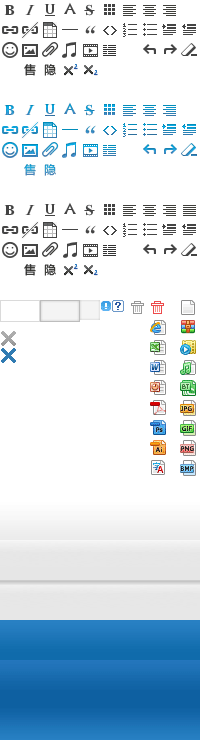
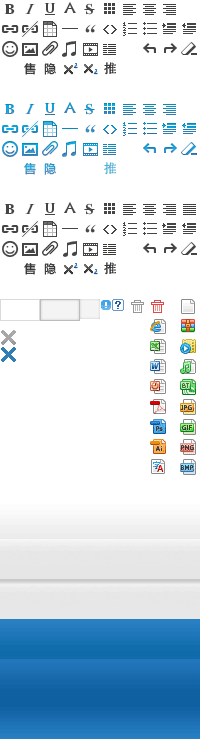
完成编辑器增加售卖插件功能

diff --git a/upload/res/js/dev/windeditor/plugins/insertTao/plugin.js b/upload/res/js/dev/windeditor/plugins/insertTao/plugin.js
@@ -13,23 +13,33 @@
 		dialog = $('\
 			<div class="edit_menu">\
 				<div class="edit_menu_music">\
-					<div class="edit_menu_top"><a href="" class="edit_menu_close">关闭</a><strong>插入商品</strong></div>\
+					<div class="edit_menu_top"><a href="" class="edit_menu_close">关闭</a><strong>推广位</strong></div>\
 					<div class="edit_menu_cont">\
 						<dl class="cc">\
-							<dt>标题：</dt>\
+							<dt>文字：</dt>\
 							<dd><input type="text" class="input length_5" id="J_input_tao_title"></dd>\
+						</dl>\
+						<dl class="cc">\
+                            <dt>类型：</dt>\
+                            <dd>\
+                            <label><input name="button_type" type="radio" value="购买" checked="checked">购买</label>\
+                            <label><input name="button_type" type="radio" value="下载">下载</label>\
+                            <label><input name="button_type" type="radio" value="去看看">去看看</label>\
+                            <label><input name="button_type" type="radio" value="抢">抢</label>\
+                            </dd>\
+                        </dl>\
+                        <dl class="cc">\
+							<dt>价格：</dt>\
+							<dd><input type="text" class="input length_3" id="J_input_tao_price" placeholder="例如：￥50、免费、等等。"></dd>\
+						</dl>\
+						<dl class="cc">\
+							<dt>链接：</dt>\
+							<dd><input type="text" class="input length_5" id="J_input_tao_link"></dd>\
 						</dl>\
                         <dl class="cc">\
 							<dt>图片：</dt>\
-							<dd><canvas id="imgBrowser" width="200" height="200" style="display:none" /><input type="file" style="display:none" onchange="fileSelectEventHandle(event,\'imgBrowser\')" name="Filename" id="Filename" /><input type="button" onclick="Filename.click()" value="选择文件" /></dd>\
-						</dl>\
-                        <dl class="cc">\
-							<dt>价格：</dt>\
-							<dd><input type="text" class="input length_3" id="J_input_tao_price"></dd>\
-						</dl>\
-						<dl class="cc">\
-							<dt>地址：</dt>\
-							<dd><input type="text" class="input length_5" id="J_input_tao_link"></dd>\
+							<dd><canvas id="imgBrowser" width="160" height="160" style="display:none" />\
+                                <input type="file" style="display:none"  accept="image/png,image/jpeg" onchange="fileSelectEventHandle(event,\'imgBrowser\')" name="Filename" id="Filename" /><input type="button" onclick="Filename.click()" value="选择文件" />(160*160)</dd>\
 						</dl>\
 					</div>\
 					<div class="edit_menu_bot">\
@@ -66,16 +76,26 @@
 			dialog.find('.edit_menu_btn').on('click',function(e) {
 				e.preventDefault();
 
-                var title = $('#J_input_tao_title').val();
+                var title = $('#J_input_tao_title').val().replace(/,/g,'');
                 var link = $('#J_input_tao_link').val();
+                var price = $('#J_input_tao_price').val().replace(/,/g,'');
                 if( title.length<2 ) {
-                    alert('请描述一下商品标题');
+                    alert('文字内容不能为空！');
                     return;
                 }
-                if( link.indexOf('http')!== 0 ) {
-                    alert('商品地址不正确，请重新输入');
+                if( price.length<1 ){
+                    alert('价格不能为空！');
                     return;
                 }
+                if( link.indexOf('http://')!== 0 ) {
+                    alert('地址不正确，请重新输入');
+                    return;
+                } 
+                if( $("#Filename").val()=="" ){
+                    alert('请选择文件');
+                    return;
+                }
+                var button_type=$("input[name=button_type]:checked").val();
 
                 //first upload image
                 var formData = new FormData();
@@ -96,9 +116,14 @@
                 }).done(function(ret){
                     //console.log(ret)
                     if( ret.state=='success' ){
-                        _self.insertHTML('<table class><tbody><tr><td><img src="'+ret.data.path+'" /></td><td valign="top">美女一枚，出售，抄底价。</br>￥56.99</br><input type="button" value="购买" onclick="alert(\"ok\");"></td></tr></tbody></table>');
-
-                        //				_self.insertHTML('<img class="j_editor_tao_content" width="300" height="40" style="border:1px dashed #ccc;display:block;background:#fffeee url('+ img_path +'music_48.png) center center no-repeat;" src="'+ img_path +'blank.gif" data-url="'+ link +'" data-auto="'+ is_autoplay +'"/>').hideDialog();
+                        var _html='<dl class="taobaoCanvas">\
+                    <dt><img src="'+ret.data.path+'" /></dt>\
+                    <dd class="title">'+title+'</dd>\
+                    <dd class="price">价格：'+price+'</dd>\
+                    <dd><span class="go"><a href="'+link+'">'+button_type+'</a></span></dd>\
+                    <dd style="clear:both;"></dd>\
+                    </dl>';
+                        _self.insertHTML(_html);
                         _self.hideDialog();
                     }else{
                         alert(ret.message[0]);
@@ -109,12 +134,16 @@
 			});
 
 			function wysiwyg() {
-				var reg = /\[mp3=(\d)\]([\s\S]*?)\[\/mp3\]/ig;
+                var reg = /\[tao=([^,]+),([^,]+),([^,]+),([^,]+),([^,]+)\]\[\/tao\]/ig;
 				var	html = $(editorDoc.body).html();
-				html = html.replace(reg,function(all, $1, $2) {
-//					return '<img class="j_editor_tao_content" width="300" height="40" style="border:1px dashed #ccc;display:block;background:#fffeee url('+ img_path +'music_48.png) center center no-repeat;" src="'+ img_path +'blank.gif" data-url="'+ $2 +'" data-auto="'+ $1 +'"/>';
-                    _self.insertHTML('<table><tbody><tr><td><img src="http://10.101.81.197:8001/phpwind/upload/attachment/thumb/mini/1501/thread/2_3_3b214088fd537f1.jpg" ></td><td valign="top">美女一枚，出售，抄底价。</br>￥56.99</br><input type="button" value="购买" onclick="alert(\"ok\");"></td></tr></tbody></table>');
-            
+				html = html.replace(reg,function(all, $1, $2, $3, $4, $5) {
+                    return '<dl class="taobaoCanvas">\
+                    <dt><img src="'+decodeURIComponent($5)+'" /></dt>\
+                    <dd class="title">'+$1+'</dd>\
+                    <dd class="price">'+$3+'</dd>\
+                    <dd><span class="go"><a href="'+decodeURIComponent($2)+'">'+$4+'</a></span></dd>\
+                    <dd style="clear:both;"></dd>\
+                    </dl>';
 				});
 				$(editorDoc.body).html(html);
 			}
@@ -130,11 +159,14 @@
 
 			//切换成代码模式或者提交时
 			$(_self).on('beforeGetContent.' + pluginName,function() {
-				$(editorDoc.body).find('img.j_editor_music_content').each(function() {
-					var url = $(this).data('url'),
-						is_autoplay = $(this).data('auto');
-					$(this).replaceWith('[mp3='+ is_autoplay +']'+ url +'[/mp3]');
-				});
+				$(editorDoc.body).find('.taobaoCanvas').each(function() {
+			        var img     = $(this).children('dt').children('img').attr('src');
+                    var title   = $(this).children('.title').text().replace(/,/g,'');
+                    var price   = $(this).children('.price').text().replace(/,/g,'');
+                    var link    = $(this).children('dd').children('.go').children('a').attr('href');
+                    var btn    = $(this).children('dd').children('.go').children('a').text();
+                    $(this).replaceWith('[tao='+title+','+encodeURIComponent(link)+','+price+','+btn+','+encodeURIComponent(img)+'][/tao]');
+                });
 			});
 
 	});

diff --git a/upload/res/css/editor_content.css b/upload/res/css/editor_content.css
@@ -426,9 +426,14 @@ $Id: editor_content.css 24233 2013-01-23 06:36:49Z yanchixia $
 	max-width:100%;
 }
 
-
-
-
+/*推广*/
+.taobaoCanvas{border:1px dashed #CCC;background:#f7f7f7 right top no-repeat;padding:10px;margin:1em 0;}
+.taobaoCanvas .go { border-radius: 5px; box-shadow: 0px 1px 1px #666666; font-family: Arial; color: #ffffff; font-size: 18px; background: #fc7600; padding: 2px 20px 2px 20px; text-decoration: none; }
+.taobaoCanvas .go a{text-decoration: none;color:#fff}
+.taobaoCanvas dt{float:left;width:160px;height:160px;padding:0 15px 5px; 5px;}
+.taobaoCanvas dt img{width:160px;height:160px;}
+.taobaoCanvas .title{font-size:14px;font-weight:bold;min-height:30px;}
+.taobaoCanvas .price{font-weight:bold;color:#fc7600;margin-bottom:5px}
 
 
 

diff --git a/upload/res/js/dev/windeditor/themes/buyiui/buyiui.css b/upload/res/js/dev/windeditor/themes/buyiui/buyiui.css
@@ -337,6 +337,13 @@ $Id: buyiui.css 22826 2012-12-27 10:36:03Z hao.lin $
 .wind_icon:hover span.insertSell{
 	background-position:-20px -160px;
 }
+/*=====推广=====*/
+.wind_icon span.insertTao{
+    background-position:-100px -60px;
+}
+.wind_icon:hover span.insertTao{
+	background-position:-100px -160px;
+}
 /*=====隐藏=====*/
 .wind_icon span.insertHide{
 	background-position:-40px -60px;

diff --git a/upload/src/library/ubb/PwUbbCode.php b/upload/src/library/ubb/PwUbbCode.php
@@ -341,6 +341,13 @@ class PwUbbCode {
 		);
 	}
 
+    public static function parseTao($message) {
+    //public static function createTao($title, $btn_type, $price, $link, $img){
+		//echo preg_replace("/\[tao=([^\]]+)\]\[([^\]]+)\]\[([^\]]+)\]\[([^\]]+)\]\[([^\]]+)\]\[\/tao\]/eis", "self::createTao('\\2', '\\4', '\\3', '\\1', '\\5')", $message);
+		return preg_replace("/\[tao=([^,]+),([^,]+),([^,]+),([^,]+),([^,]+)\]\[\/tao\]/eis", "self::createTao('\\1', '\\4', '\\3', '\\2', '\\5')", $message);
+	}
+
+
 	public static function parseRemind($message, $remindUser) {
 		return preg_replace('/@([\x7f-\xff\dA-Za-z\.\_]+)(?=\s?)/ie', "self::createRemind('\\1', \$remindUser)", $message);
 	}
@@ -428,11 +435,12 @@ class PwUbbCode {
 		$message = self::convertGlow($message);
 
 		self::_startParse();
+        $config->isConvertTao && $message = self::parseTao($message);
 		strpos($message, '[s:') !== false && $message = self::parseEmotion($message);
 		$message = self::parseAttachment($message, $config);
 		self::hasTag($message, 'img') && $message = self::parseImg($message, $config->isConverImg, $config->imgWidth, $config->imgHeight, $config->imgLazy);
 		self::hasTag($message, 'url') && $message = self::parseUrl($message);
-		self::hasTag($message, 'flash') && $message = self::parseFlash($message, $config->isConvertFlash);
+        self::hasTag($message, 'flash') && $message = self::parseFlash($message, $config->isConvertFlash);
 		$config->remindUser && $message = self::parseRemind($message, $config->remindUser);
 		$config->isConvertMedia && $message = self::parseMedia($message, $config->isConvertMedia == 2);
 		$config->isConvertIframe && self::hasTag($message, 'iframe') && $message = self::parseIframe($message, $config->isConvertIframe == 2);
@@ -734,6 +742,25 @@ class PwUbbCode {
 		$html = "<span class=\"posts_icon\"><i class=\"icon_music\"><i></span> <a target=\"_blank\" href=\"$url \">$url</a>";
 		return self::_pushCode($html);
 	}
+
+    /**
+     * createTaoCanvas 
+     * 
+     * @access public
+     * @return void
+     */
+    public static function createTao($title, $btn_type, $price, $link, $img){
+        $link = self::escapeUrl(urldecode($link));
+        $img  = self::escapeUrl(urldecode($img));
+        $html = '<dl class="taobaoCanvas">
+                    <dt><img src="'.$img.'" /></dt>
+                    <dd class="title">'.$title.'</dd>
+                    <dd class="price">'.$price.'</dd>
+                    <dd><span class="go"><a href="'.$link.'">'.$btn_type.'</a></span></dd>
+                    <dd style="clear:both;"></dd>
+                    </dl>';
+        return self::_pushCode($html);
+    }
 
 	public static function createRemind($username, $uArray) {
 		return isset($uArray[$username]) ? '<a href="'. WindUrlHelper::createUrl('space/index/run', array('uid' => $uArray[$username])) . '">@' . $username . '</a>' : '@' . $username;

diff --git a/upload/src/applications/native/controller/NativeBaseController.php b/upload/src/applications/native/controller/NativeBaseController.php
@@ -135,6 +135,13 @@ abstract class NativeBaseController extends PwBaseController {
         }
     }
 
+    public function abcAction(){
[1 lines of base64/hex data omitted]
+        $aaa=  Pw::decrypt($unsecurityKey,$this->_securityKey);
+        print_r( unserialize($aaa) );
+        exit;
+    }
+
     /**
      * 认证sessionKey是否合法 
      * 

diff --git a/upload/src/library/ubb/config/PwUbbCodeConvertThread.php b/upload/src/library/ubb/config/PwUbbCodeConvertThread.php
@@ -30,6 +30,7 @@ class PwUbbCodeConvertThread extends PwUbbCodeConvertConfig {
 		$this->isConvertPost = true;
 		$this->isConvertHide = true;
 		$this->isConvertSell = true;
+		$this->isConvertTao  = true;
 		$this->isConverImg = $config['ubb.img.open'];
 		$this->isConvertMedia = $config['ubb.media.open'] ? 2 : 1;
 		$this->isConvertFlash = $config['ubb.flash.open'];

diff --git a/upload/conf/components.php b/upload/conf/components.php
@@ -22,7 +22,8 @@ return array(
 		'config' => array('resource' => 'CONF:pwcomponents.php'),		
 	),
 	'security' => array(
-		'path' => 'WIND:security.WindXxtea',
+		//'path' => 'WIND:security.WindXxtea',
+		'path' => 'WIND:security.WindMcryptCbc',
 		'scope' => 'singleton',
 	),
 	'windLogger' => array(
